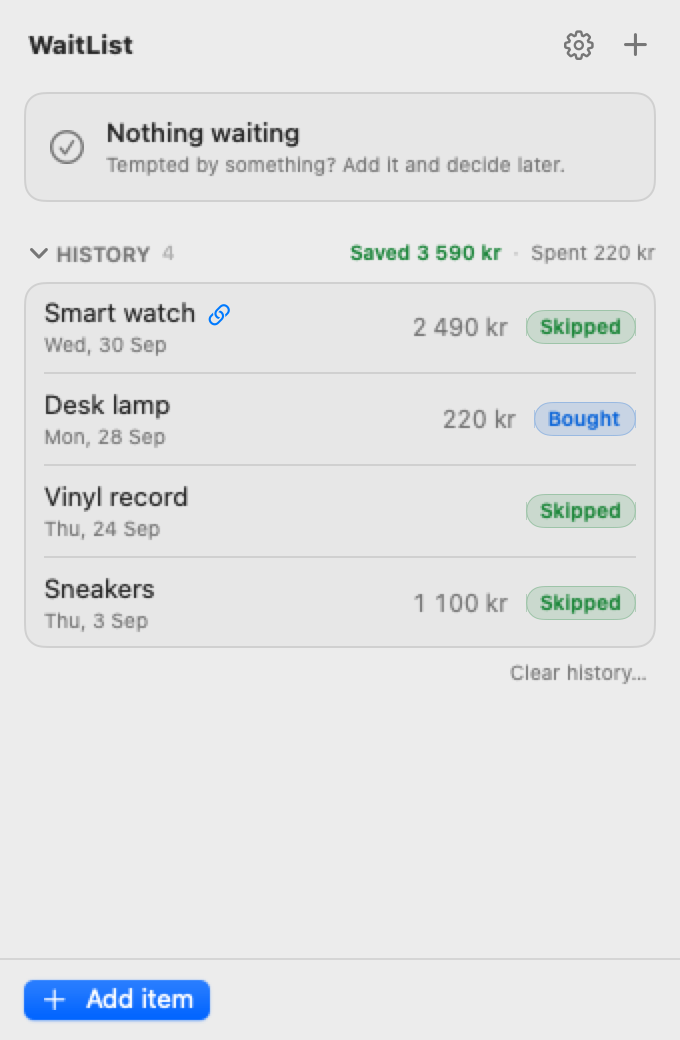
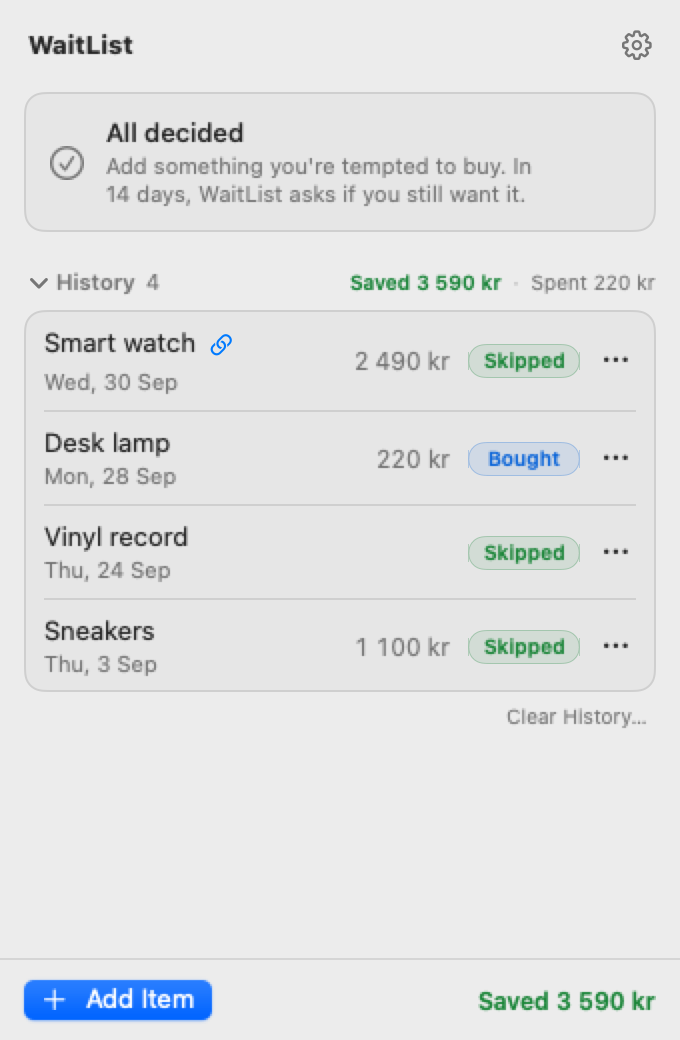
Update README and screenshots for the polished UI

diff --git a/README.md b/README.md
@@ -27,7 +27,7 @@ Version 2.0 is a rewrite from scratch. Items saved by WaitList 1.x are imported 
 
 - **Lives in the menubar**: No Dock icon and no windows. Left click the icon to open a popover. Right click it for a menu with Open, Add Item, Settings and Quit.
 - **Add items with some context**: A name, an optional price, an optional note or link, and a waiting period.
-- **Flexible waiting periods**: Pick 7, 14, 30 or 90 days, or enter any number from 1 to 365. You choose the default.
+- **Flexible waiting periods**: Pick 7, 14, 30 or 90 days, or enter any number from 1 to 365. You choose the default from the four presets.
 - **Progress at a glance**: Every waiting item shows a thin progress bar and how many days are left.
 - **A reminder at the right time**: When the period ends, the item moves to a "Ready to decide" section and a macOS notification appears. The default time is 09:00, and you can change it.
 - **Decide your way**: **Skip it**, **Bought it** or **Wait 7 more days**, from the notification or from the popover. You can also decide early, edit an item, or delete it.
@@ -54,7 +54,7 @@ WaitList needs **macOS 14 Sonoma or later**.
 
 5. **Allow Notifications**: WaitList asks for permission to send notifications when it starts. Say yes, or the reminders will not appear. You can change this later in System Settings. The Settings screen in WaitList shows the current status and has a shortcut.
 
-6. **(Optional) Launch at Login**: Open WaitList's settings and turn on **Launch at login**. If macOS asks for approval, use the **Open Login Items** button that appears there.
+6. **(Optional) Open at Login**: Open WaitList's settings and turn on **Open at Login**. If macOS asks for approval, use the **Open Login Items** button that appears there.
 
 ## Usage
 
@@ -63,22 +63,23 @@ WaitList needs **macOS 14 Sonoma or later**.
    - Right click shows a menu: **Open WaitList**, **Add Item…**, **Settings…** and **Quit WaitList**.
 
 2. **Add an Item**:
-   - Click the **+** button (or **Add item**) in the popover. In the popover, ⌘N does the same.
+   - Click **Add Item** at the bottom of the popover, or press ⌘N on the list. When the list is empty, the button is in the middle of the screen instead.
    - Enter a name. The price and the note are optional. A note can be plain text or a link, and a link gets a small link icon that opens it.
+   - In Add and Edit, the price can use "." or "," as the decimal separator ("19.99" or "19,99"). Thousands separators and currency symbols or codes are ignored ("1 299", "$20", "SEK 20"), but an amount with more than 12 digits before the decimal point or more than 4 decimals is rejected.
    - Pick a waiting period: 7, 14, 30 or 90 days, or **Custom** for 1 to 365 days. The screen shows the exact date and time you will decide.
    - Click **Add to WaitList**.
 
-3. **Wait**: Waiting items show a thin progress bar and a line like "12 days left" with the date. In the last two days it reads "Decide tomorrow at 09:00" or "Decide today at 09:00".
+3. **Wait**: Waiting items show a thin progress bar and a line like "Ready in 12 days · Thu 15 Oct". In the last two days it reads "Ready tomorrow at 09:00" or "Ready today at 09:00".
 
 4. **Decide**: When the period ends, at your reminder time, the item moves to **Ready to decide** and a notification appears with three actions:
    - **Skip it**: You do not need it. It goes to your history as money not spent.
    - **Bought it**: You still wanted it and bought it.
    - **Wait 7 more days**: Not sure yet. The decision moves back by 7 days (counted from today if the item is already due).
 
-   Clicking the notification itself opens the popover. The same actions are on each item in the popover.
+   Clicking the notification itself opens the popover. The same actions are on each item in **Ready to decide**: **Skip it** and **Bought it** are buttons, and a small **Not sure? Wait 7 more days** button sits right below them.
 
 5. **Change Your Mind Early**: Use the **⋯** button on an item, or right-click it.
-   - **Decide now** to skip or buy before the period ends.
+   - **Decide Now** to skip or buy before the period ends.
    - **Wait 7 more days** to extend it.
    - **Edit…** to change the name, price or note.
    - **Delete…** to remove it. WaitList asks you to confirm first.
@@ -86,17 +87,22 @@ WaitList needs **macOS 14 Sonoma or later**.
 6. **Review Your History**:
    - Decided items go to the **History** section, which you can expand and collapse.
    - Its header shows "Saved X · Spent Y". Saved is the total price of skipped items. Spent is the total price of items you bought. Items without a price count as zero. If no item has a price, you see counts instead.
-   - After you decide, an **Undo** button stays on screen for a few seconds. Later, right-click an item in History and choose **Undo decision**.
-   - **Clear history…** removes all decided items and starts the totals over. WaitList asks you to confirm.
+   - The footer of the list also shows the saved total, once you have skipped an item with a price.
+   - After you decide in the popover, an undo toast appears at the bottom for a few seconds. Click **Undo** or press ⌘Z.
+   - Each History row has a **⋯** menu (or right-click it) with **Undo Decision** and **Delete…**. Deleting asks you to confirm, and it also removes the item from your totals.
+   - **Clear History…** removes all decided items and starts the totals over. WaitList asks you to confirm.
 
-7. **Adjust Settings**: Click the gear icon in the popover (or press ⌘,).
-   - **Default wait**: The waiting period suggested for new items. The default is 14 days.
-   - **Reminder time**: When items become ready to decide. The default is 09:00. Changing it also moves your upcoming decisions to the new time.
-   - **Notifications**: Shows whether macOS allows them, with a shortcut to System Settings.
-   - **Currency**: The currency for prices. It starts as your region's currency (or USD if your region has none). Prices are shown in it, with no conversion.
-   - **Launch at login**.
-   - **Data**: Shows where your data file is and opens it in Finder.
-   - **Quit WaitList**.
+7. **Adjust Settings**: Click the gear icon in the popover (or press ⌘,), or choose **Settings…** from the right-click menu. The screen has three groups.
+   - **General**:
+     - **Default wait**: The waiting period suggested for new items. Pick 7, 14, 30 or 90 days. The default is 14 days.
+     - **Currency**: The currency for prices. It starts as your region's currency (or USD if your region has none). Prices are shown in it, with no conversion.
+     - **Open at Login**: Starts WaitList when you log in.
+   - **Reminder**:
+     - **Reminder time**: When items become ready to decide. The default is 09:00. Changing it moves only the items that are still waiting. Items already ready to decide stay as they are, and so does a waiting item whose new time today has already passed.
+     - **Notifications**: Shows whether macOS allows them, with a shortcut to System Settings if they are off.
+   - **About**:
+     - The version, and **Quit WaitList**.
+     - **Data file**: **Show in Finder** reveals your data file. Hover over the row to see its path.
 
 ## Screenshots
 
@@ -135,7 +141,7 @@ WaitList keeps your items in one file:
 
 ## Building from Source
 
-You do not need Xcode. You only need the Command Line Tools with Swift 5.10 or later:
+You do not need Xcode for a normal build. You only need the Command Line Tools with Swift 5.10 or later:
 
 ```bash
 xcode-select --install
@@ -152,11 +158,13 @@ make run
 | `make app` | Builds `build/WaitList.app` (a release build, ad-hoc signed). Use `make app CONFIG=debug` for a debug build. |
 | `make run` | Quits a running WaitList, builds the app, and launches it. |
 | `make test` | Runs the unit tests. |
-| `make icon` | Regenerates the app icon and menubar glyphs from `Tools/make-icon.swift`. |
+| `make icon` | Regenerates the app icon from `Tools/make-icon.swift`. The `.icns` and the menubar glyphs go to `Resources/`, and the 1024 px PNG goes to `Screenshots/icon.png`. |
 | `make release` | Builds the app and zips it to `build/WaitList.zip`. |
 | `make build` | Compiles with SwiftPM only, with no app bundle. |
 | `make stop` | Quits a running WaitList. |
 | `make clean` | Removes `.build` and `build`. |
+
+The plain `make app` builds for the architecture of your Mac only, and works with just the Command Line Tools. `UNIVERSAL=1 make app` builds one binary for Apple silicon and Intel, and needs Xcode.
 
 The package also opens in Xcode if you prefer: open `Package.swift`.
 
@@ -169,15 +177,16 @@ The code is split into two targets:
 
 The app version lives in `Packaging/Info.plist` and `Sources/WaitListCore/Version.swift`. `make app` stops with an error if the two differ.
 
-GitHub Actions builds and tests the app on every push to `main` and on every pull request. When you push a tag that starts with `v`, it also attaches `WaitList.zip` to a GitHub Release.
+GitHub Actions builds and tests the app on every push to `main` and on every pull request. It builds universal (`UNIVERSAL=1`), so `WaitList.zip` runs on Apple silicon and Intel. When you push a tag that starts with `v`, it also attaches `WaitList.zip` to a GitHub Release.
 
 ## Development
 
 A few switches help when working on WaitList. They are not needed for normal use. The examples call the binary inside the app bundle, so run `make app` first.
 
-- `WAITLIST_DATA_FILE=<path>` uses a different data file instead of the standard one. The 1.x import is skipped in this mode, so your real data stays untouched.
+- `WAITLIST_DATA_FILE=<path>` uses a different data file instead of the standard one. The 1.x import is skipped in this mode, so your real data stays untouched. The app also uses a separate settings store (`com.cemalpturk.WaitList.debug`), so a test run never changes your real settings.
+- Only one copy of WaitList runs at a time. A second launch prints a message and exits before it touches any data, so run `make stop` first if WaitList is already running. `--snapshot` and `--debug-dump-data` are the exceptions, because they show no UI.
 - `--snapshot <dir>` renders every screen, in light and dark mode, to PNGs in `<dir>` and exits. It uses sample data only. The screenshots in this README come from it.
-- `--debug-add-due-in <seconds> <name>` adds an item that becomes due in that many seconds, then launches the app normally. It lets you test notifications without waiting for days.
+- `--debug-add-due-in <seconds> <name>` adds an item that becomes due in that many seconds, then launches the app normally. It lets you test notifications without waiting for days. A negative number adds an item that is already due. The number can be up to 10 years of seconds either way, and anything larger is rejected.
 - `--debug-dump-data` prints the items in the data file as JSON and exits.
 
 ```bash
@@ -186,7 +195,7 @@ WL=build/WaitList.app/Contents/MacOS/WaitList
 # Render every screen to build/snapshots
 $WL --snapshot build/snapshots
 
-# Test a notification against a throwaway data file
+# Test a notification against a throwaway data file (quit a running WaitList first)
 WAITLIST_DATA_FILE=build/test.json $WL --debug-add-due-in 30 "Test item"
 
 # Look at what that file contains
